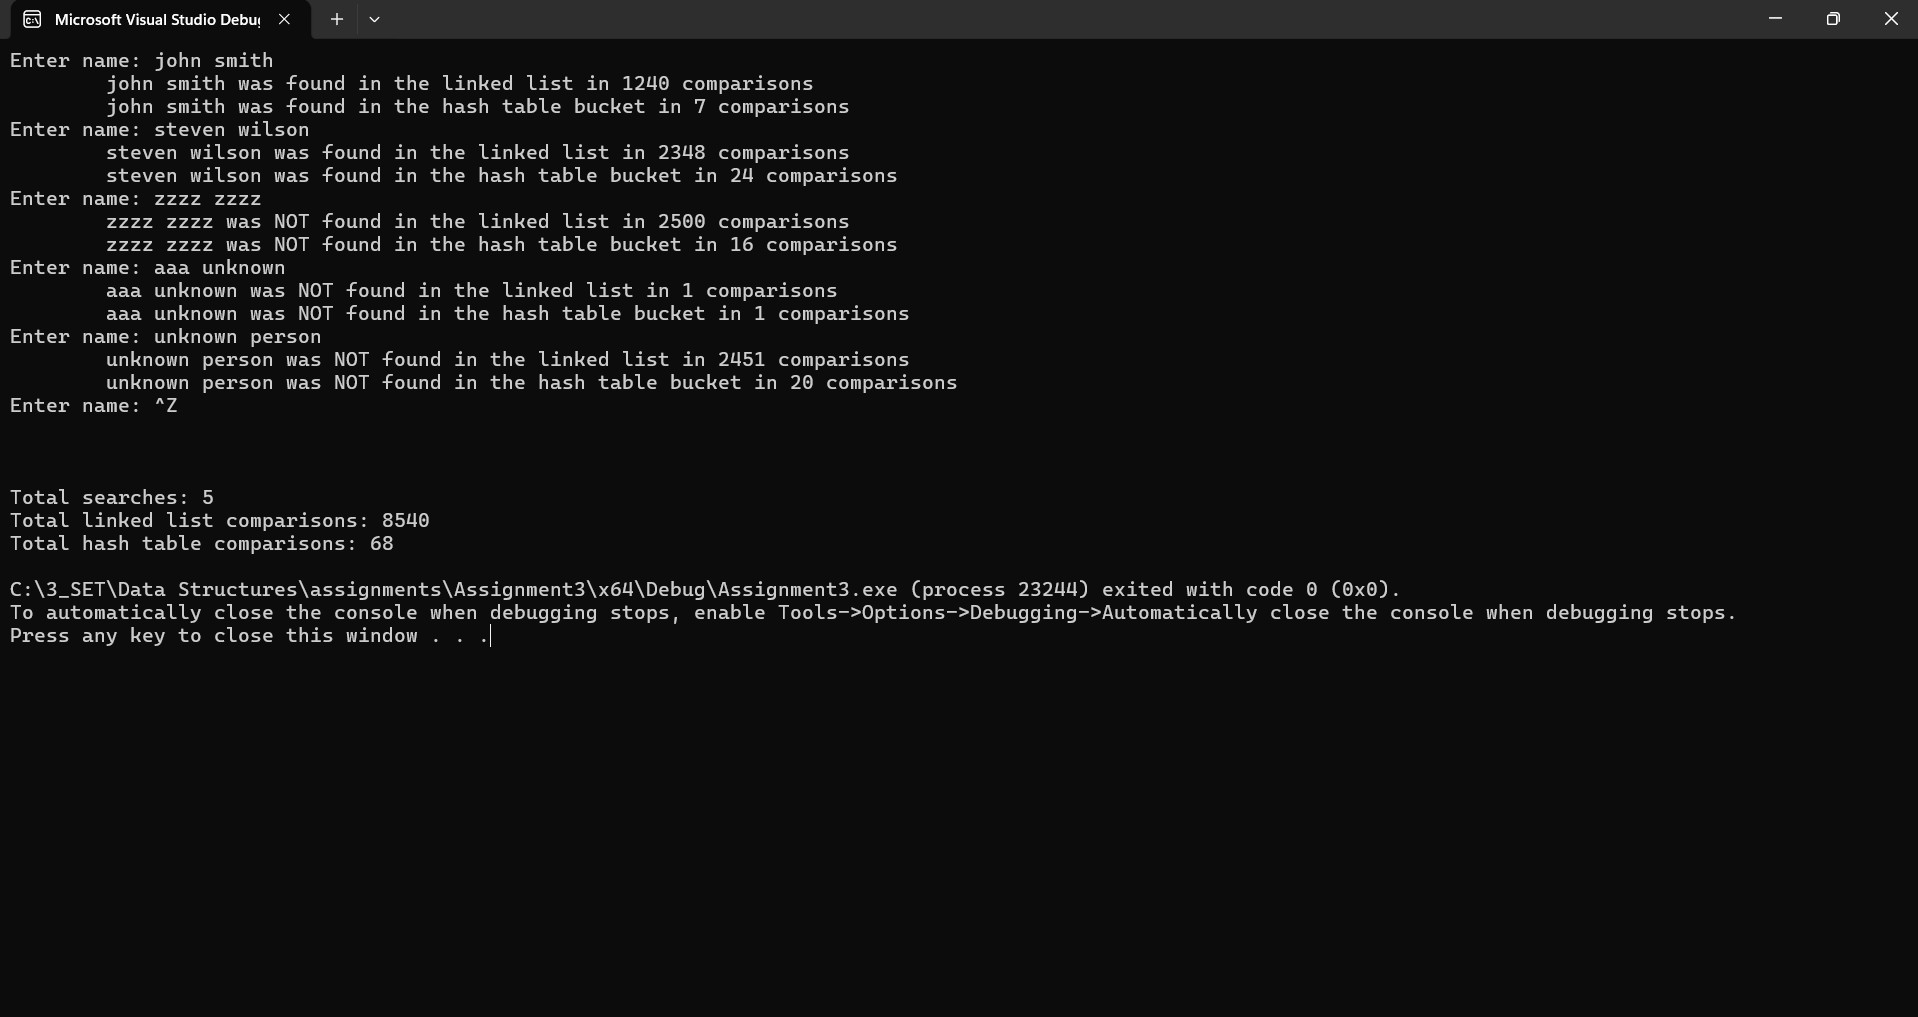
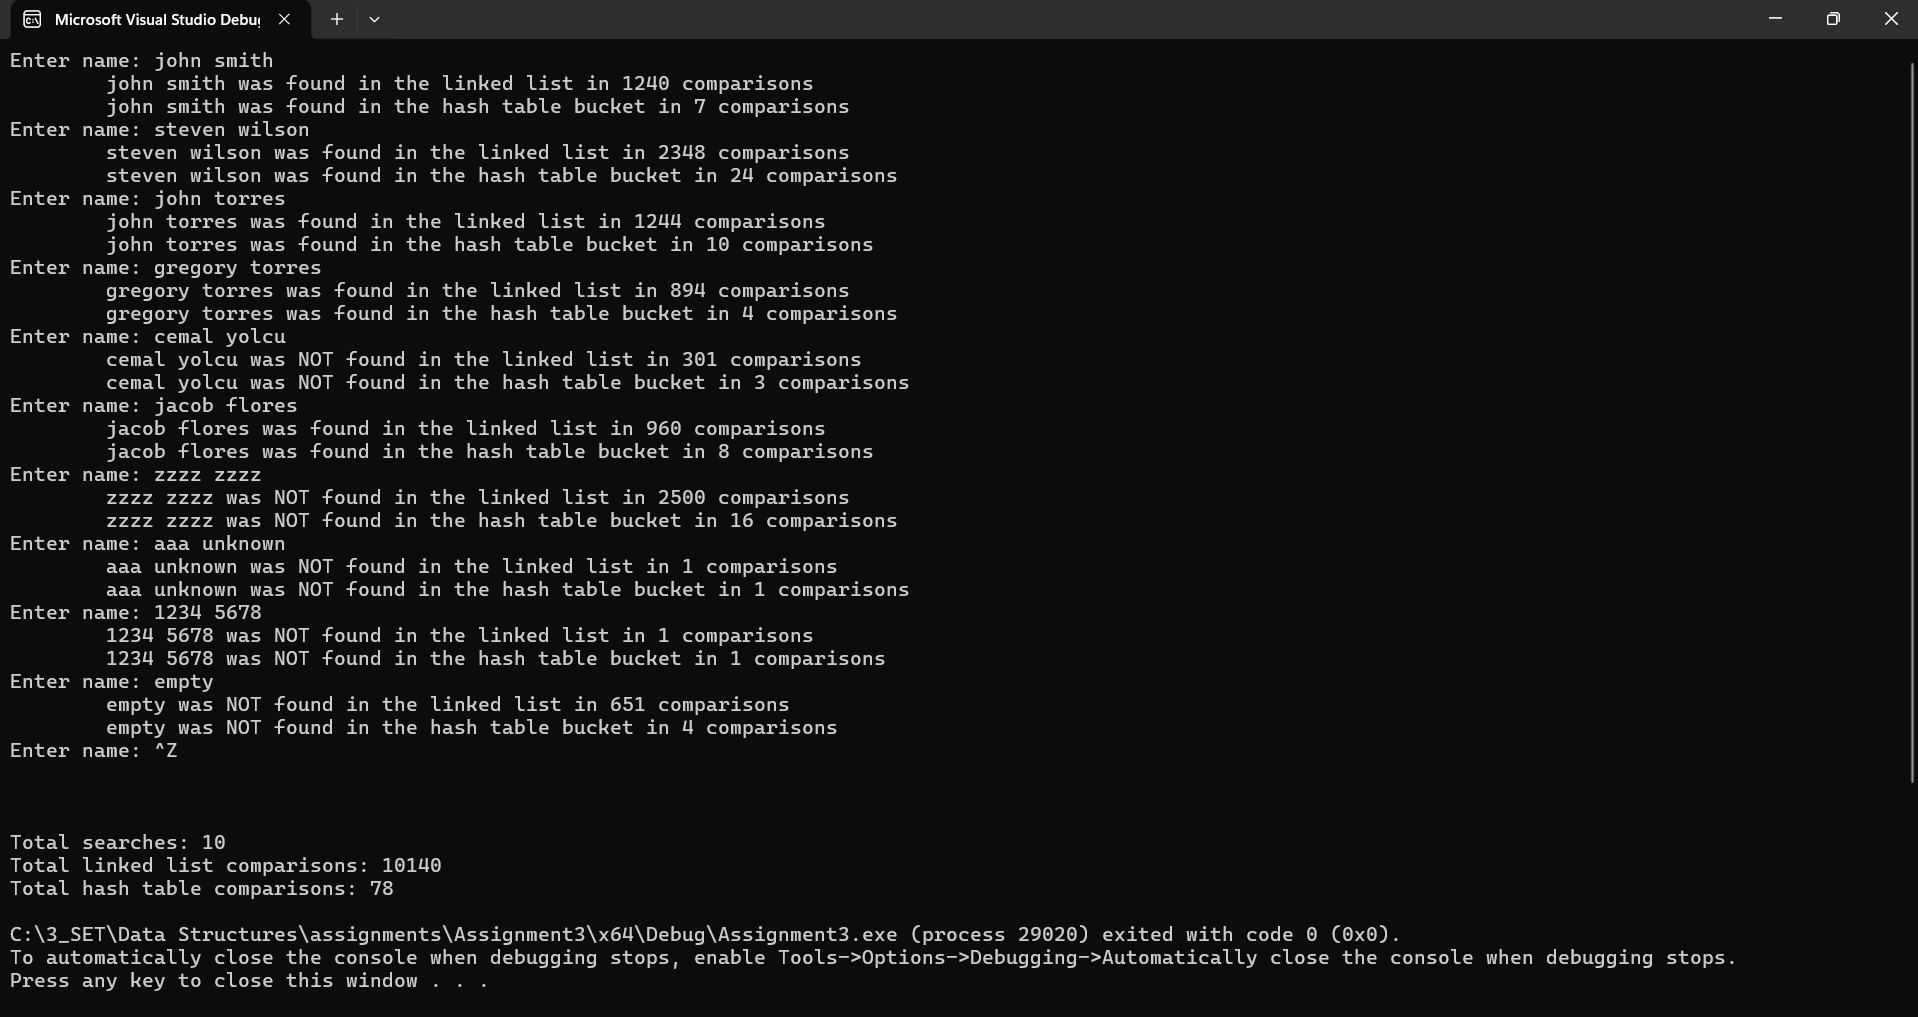
update code comments and comparison screenshot

diff --git a/A3.c b/A3.c
@@ -1,3 +1,14 @@
+/*
+* FILE			: A3.c
+* PROJECT		: Assignment 3 - Data Structures
+* PROGRAMMER	: Cemal Yolcu
+* DATE			: 2026-11-21
+* 
+* DESCRIPTION	: This program compares a sorted linked list and a hash table.
+*				  It reads names from a text file and stores them in both data structures.
+*				  The user can search for a name, andthe program counts the comparisons for each search method.
+*/
+
 #include <stdio.h>
 #include <stdlib.h>
 #include <string.h>
@@ -11,11 +22,12 @@ typedef struct linkedList
 } LinkedList;
 
 /*
-* Function		: GenerateHash
-* Description	: Calculates the hash index for a name.
-* Returns		: The bucket index
-*/
-int GenerateHash(char* name)
+ * FUNCTION    : generateHash
+ * DESCRIPTION : Calculates the hash table index for a name.
+ * PARAMETERS  : char* name : The name to calculate a hash for.
+ * RETURNS     : int : The bucket index.
+ */
+int generateHash(char* name)
 {
 	int hash = 0;
 	for (int i = 0; name[i] != '\0'; i++)
@@ -27,10 +39,11 @@ int GenerateHash(char* name)
 }
 
 /*
-* Function		: createNode
-* Description	: Creates a new linked list node and stores a name
-* Returns		: The new node, or NULL if memory allocation fails
-*/
+ * FUNCTION    : createNode
+ * DESCRIPTION : Creates a linked list node and allocates memory for a name.
+ * PARAMETERS  : char* name : The name to store in the node.
+ * RETURNS     : LinkedList* : The new node, or NULL if memory allocation fails.
+ */
 LinkedList* createNode(char* name)
 {
 	LinkedList* newNode = (LinkedList*)malloc(sizeof(LinkedList));
@@ -55,10 +68,12 @@ LinkedList* createNode(char* name)
 }
 
 /*
-* Function		: insertSorted
-* Description	: Adds a new name to the linked list in alphabetical order
-* Returns		: 1 if succesfull, 0 if memory allocation fails
-*/
+ * FUNCTION    : insertSorted
+ * DESCRIPTION : Inserts a new name in alphabetical order in a linked list.
+ * PARAMETERS  : LinkedList** head : The address of the first node pointer. 
+				 char* name : The name to insert.
+ * RETURNS     : int : 1 if successful, or 0 if memory allocation fails.
+ */
 int insertSorted(LinkedList** head, char* name)
 {
 	LinkedList* newNode = createNode(name);
@@ -90,10 +105,11 @@ int insertSorted(LinkedList** head, char* name)
 }
 
 /*
-* Function		: freeList
-* Description	: Frees all nodes and names in a linked list
-* Returns		: void
-*/
+ * FUNCTION    : freeList
+ * DESCRIPTION : Frees all the names and nodes in a linked list.
+ * PARAMETERS  : LinkedList* head : The first node of the list to free.
+ * RETURNS     : void : No value is returned.
+ */
 void freeList(LinkedList* head)
 {
 	LinkedList* temp;
@@ -108,21 +124,26 @@ void freeList(LinkedList* head)
 }
 
 /*
-* Function		: insertIntoHashTable
-* Description	: Adds a name to the corrct hash table bucket
-* Returns		: 1 if succesfull, 0 otherwise
-*/
+ * FUNCTION    : insertIntoHashTable
+ * DESCRIPTION : Inserts a name into its sorted hash table bucket.
+ * PARAMETERS  : LinkedList* hashTable[] : The hash table buckets.
+ *               char* name : The name to insert.
+ * RETURNS     : int : 1 if successful, or 0 if memory allocation fails.
+ */
 int insertIntoHashTable(LinkedList* hashTable[], char* name)
 {
-	int index = GenerateHash(name);
+	int index = generateHash(name);
 	return insertSorted(&hashTable[index], name);
 }
 
 /*
-* Function      : searchLinkedList
-* Description   : Searches for a name in a sorted linked list and counts the comparisons
-* Returns       : The matching node or NULL
-*/
+ * FUNCTION    : searchLinkedList
+ * DESCRIPTION : Searches a sorted linked list and counts strcmp calls.
+ * PARAMETERS  : char* searchName : The name to search for.
+ *               LinkedList* linkedList : The first node of the list.
+ *               int* comparisonCount : Stores the number of comparisons.
+ * RETURNS     : LinkedList* : The matching node, or NULL if not found.
+ */
 LinkedList* searchLinkedList(char* searchName, LinkedList* linkedList, int* comparisonCount)
 {
 	LinkedList* current = linkedList;
@@ -147,15 +168,16 @@ LinkedList* searchLinkedList(char* searchName, LinkedList* linkedList, int* comp
 
 		current = current->next;
 	}
-
 	return NULL;
 }
 
 /*
-* Function      : searchForNameTwice
-* Description   : Searches for a name in both data structures and displays the comparison counts
-* Returns       : void
-*/
+ * FUNCTION    : searchForNameTwice
+ * DESCRIPTION : Searches both data structures and prints the results.
+ * PARAMETERS  : char* searchName : The name to search for. LinkedList* hashTable[] : The hash table buckets.
+ *               int comparisonCount[2] : Counts for both search methods. LinkedList* head : The first node of the long linked list.
+ * RETURNS     : void : No value is returned.
+ */
 void searchForNameTwice(char* searchName, LinkedList* hashTable[], int comparisonCount[2], LinkedList* head)
 {
 	LinkedList* found;
@@ -173,7 +195,7 @@ void searchForNameTwice(char* searchName, LinkedList* hashTable[], int compariso
 	}
 
 	// search the hash table
-	index = GenerateHash(searchName);
+	index = generateHash(searchName);
 	found= searchLinkedList(searchName, hashTable[index], &comparisonCount[1]);
 
 	if (found != NULL)
@@ -184,9 +206,15 @@ void searchForNameTwice(char* searchName, LinkedList* hashTable[], int compariso
 	{
 		printf("\t%s was NOT found in the hash table bucket in %d comparisons\n", searchName, comparisonCount[1]);
 	}
-
 }
 
+/*
+ * FUNCTION    : main
+ * DESCRIPTION : Loads names into both data structures, searches names entered
+ *               by the user and prints the comparison totals.
+ * PARAMETERS  : void
+ * RETURNS     : int : 0 if successful, 1 if an error occurred.
+ */
 int main(void)
 {
 	LinkedList* head = NULL;
@@ -194,7 +222,6 @@ int main(void)
 
 	FILE* file = NULL;
 	char name[64];
-	int totalNames = 0;
 	int success = 1;
 	
 	// open names.txt
@@ -228,8 +255,6 @@ int main(void)
 			success = 0;
 			break;
 		}
-
-		totalNames++;
 	}
 
 	if (ferror(file))
@@ -239,7 +264,6 @@ int main(void)
 	}
 	
 	fclose(file);
-
 
 	// search names entered by the user
 	if (success)
@@ -274,7 +298,6 @@ int main(void)
 		printf("Total hash table comparisons: %d\n", totalHashComparisons);
 	}
 
-
 	// free sorted linked list
 	freeList(head);
 
@@ -284,5 +307,4 @@ int main(void)
 		freeList(hashTable[i]);
 	}
 	return success ? 0 : 1;
-
 }
